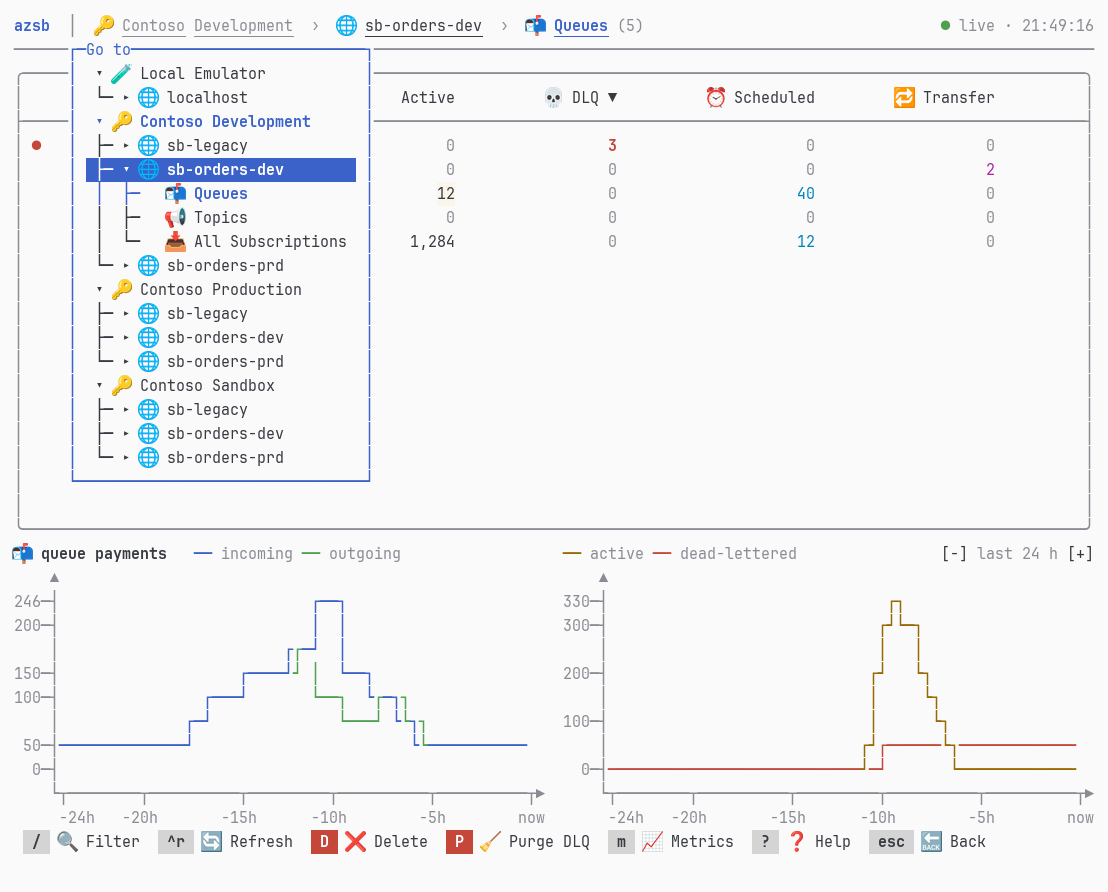
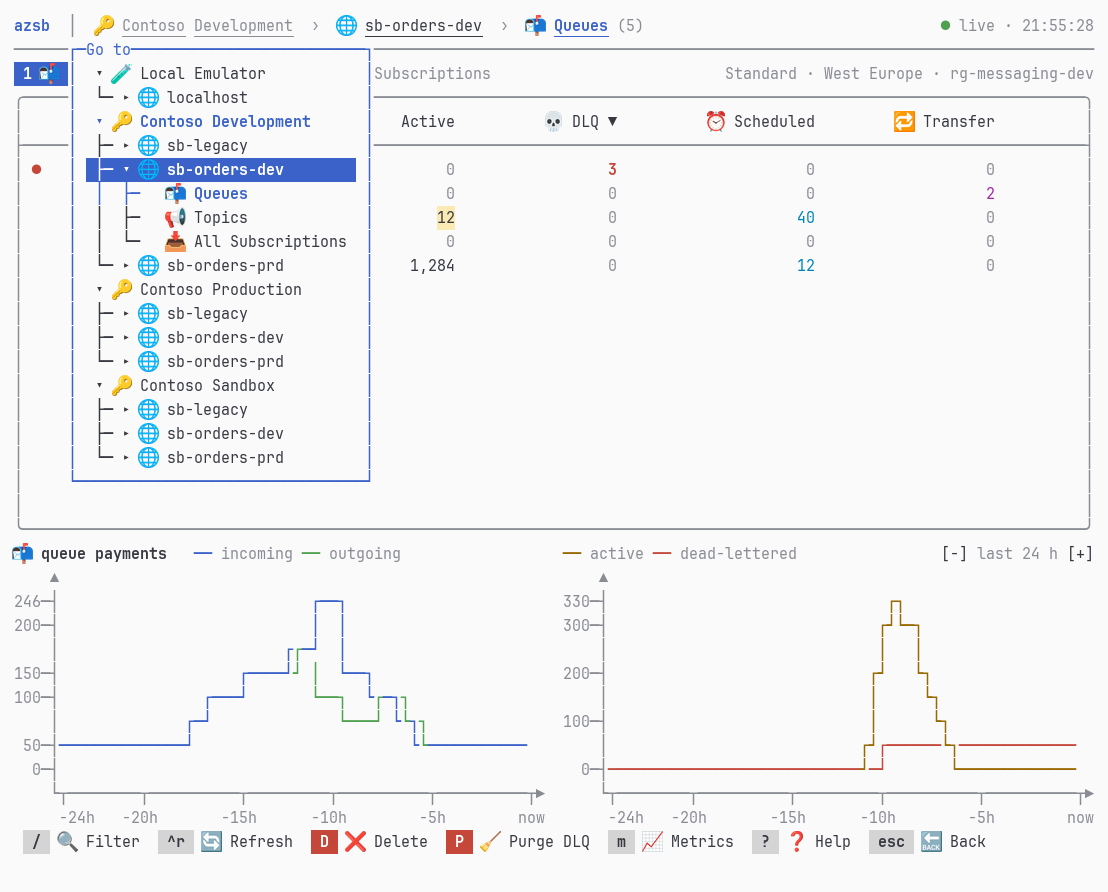
Section tabs on the queue, topic and subscription lists (#148)
Part of #128. SectionTabs under the header: 1 📬 Queues 5, 2 📢 Topics,
3 📥 All Subscriptions, the current one highlighted, with SKU, region and
resource group on the right. The page's own count is live; the others
come from the cached listings, so the tabs cost no requests. 1 2 3 and
a click switch sections; the breadcrumb dropdown stays for deeper pages.

Claude-Session: https://claude.ai/code/session_014zNgM4zMsC37xcnYsSUVjN

diff --git a/tests/ServiceBusConsole.Tests/QueueListPageTests.cs b/tests/ServiceBusConsole.Tests/QueueListPageTests.cs
@@ -1,3 +1,4 @@
+using Microsoft.Extensions.Logging.Abstractions;
 using RazorConsole.Testing;
 using Spectre.Console;
 
@@ -102,12 +103,30 @@ public sealed class QueueListPageTests
         var frame = await terminal.WaitUntilAsync(f => f.GetLine(0).Contains("● live"), AppHarness.Timeout, cancellationToken: Ct);
 
         frame.GetLine(1).Trim().ShouldBe(new string('─', frame.Width));
-        frame.GetLine(2).ShouldStartWith("╭");
-        frame.GetLine(2).ShouldNotContain("┬");
+        frame.GetLine(2).ShouldStartWith(" 1 📬 Queues 3 ");
+        frame.GetLine(3).ShouldStartWith("╭");
+        frame.GetLine(3).ShouldNotContain("┬");
         foreach (var name in new[] { "/ to filter", "payments", "emails" })
             frame.GetLine(RowOf(frame, name)).Count(c => c == '│').ShouldBe(2, name);
         frame.GetLine(RowOf(frame, "payments")).ShouldStartWith("│ ●");
         frame.GetLine(RowOf(frame, "emails")).ShouldNotContain("●");
+    }
+
+    [Test]
+    public async Task Tabs_CountTheSectionLive_AndTheOthersFromTheCache_AndTwoOpensTopics()
+    {
+        var app = WithQueues();
+        await new FileCache(NullLogger<FileCache>.Instance, app.CacheDirectory).SaveAsync(
+            CacheKeys.Topics(NamespaceInfo.Emulator), [new TopicInfo { Name = "orders" }, new TopicInfo { Name = "refunds" }]);
+        await using var terminal = await app.OpenQueuesAsync();
+
+        var frame = await terminal.WaitForTextAsync("Queues (3)", AppHarness.Timeout, Ct);
+        frame.GetLine(2).ShouldStartWith(" 1 📬 Queues 3   2 📢 Topics 2   3 📥 All Subscriptions ");
+        await AppHarness.WaitForTableFocusAsync(terminal);
+
+        await terminal.SendKeyAsync(ConsoleKey.D2, '2', cancellationToken: Ct);
+
+        await terminal.WaitUntilAsync(f => f.GetLine(0).Contains("📢 Topics"), AppHarness.Timeout, cancellationToken: Ct);
     }
 
     [Test]

diff --git a/src/ServiceBusConsole/UI/FullscreenLayout.cs b/src/ServiceBusConsole/UI/FullscreenLayout.cs
@@ -9,6 +9,9 @@ public static class FullscreenLayout
     /// <summary><see cref="ConnectionHeader"/>: the breadcrumb line and a rule — 2 lines.</summary>
     public const int Header = 2;
 
+    /// <summary><see cref="SectionTabs"/> under the header of a section's list page — 1 line.</summary>
+    public const int Tabs = 1;
+
     /// <summary><c>Padder(0,1,0,0)</c> + a single-line count/status markup — 2 lines.</summary>
     public const int CountRow = 2;
 
@@ -45,9 +48,12 @@ public static class FullscreenLayout
     public static int PageSizeRoundedTable(int terminalHeight)
         => PageSize(terminalHeight, Header + RoundedTableChrome + FooterButtons);
 
-    /// <summary><see cref="PageSizeRoundedTable(int)"/> with the metrics panel above the buttons when <paramref name="metrics"/>.</summary>
-    public static int PageSizeRoundedTable(int terminalHeight, bool metrics)
-        => PageSize(terminalHeight, Header + RoundedTableChrome + FooterButtons + (metrics ? MetricsPanel : 0));
+    /// <summary>
+    /// <see cref="PageSizeRoundedTable(int)"/> with the metrics panel above the buttons when <paramref name="metrics"/>,
+    /// and <see cref="SectionTabs"/> under the header when <paramref name="tabs"/>.
+    /// </summary>
+    public static int PageSizeRoundedTable(int terminalHeight, bool metrics, bool tabs = false)
+        => PageSize(terminalHeight, Header + (tabs ? Tabs : 0) + RoundedTableChrome + FooterButtons + (metrics ? MetricsPanel : 0));
 
     /// <summary>
     /// Message browser: list rows on top and the preview of the focused message below, about half each.

diff --git a/tests/ServiceBusConsole.Tests/TopicListPageTests.cs b/tests/ServiceBusConsole.Tests/TopicListPageTests.cs
@@ -21,7 +21,7 @@ public sealed class TopicListPageTests
         await using var terminal = await app.OpenTopicsAsync();
         await terminal.WaitForTextAsync("mid", AppHarness.Timeout, Ct);
 
-        await AppHarness.ClickTextAsync(terminal, "Subscriptions");
+        await AppHarness.ClickTextAsync(terminal, "📥 Subscriptions"); // the column, not the tab
         var frame = await terminal.WaitForTextAsync("Subscriptions ▲", AppHarness.Timeout, Ct);
         RowOf(frame, "zeta").ShouldBeLessThan(RowOf(frame, "mid"));
         RowOf(frame, "mid").ShouldBeLessThan(RowOf(frame, "alpha"));

diff --git a/CLAUDE.md b/CLAUDE.md
@@ -107,7 +107,7 @@ This is a .NET 10 terminal UI app that browses Azure Service Bus namespaces, que
 | `Messaging/` | `MessageBrowser` (+ store), `OperationProgress`, `RetryText` |
 | `Logging/`, `Syntax/` | File logger, JSON highlighting grammar |
 
-**UI pattern:** Use `/razorconsole` for a full component and pattern reference. Namespace pages use `<FullscreenPage>`: `<Header>` (breadcrumb + count, rendered inside `ConnectionHeader`), `<Status>` (right of the breadcrumb: `<LiveStatus>` on list pages), `<Content>` (table wrapped in `<Scrollable>`), `<Footer>` (action buttons). `ConnectionHeader` is one line (`azsb │ subscription › namespace › page`) and a rule, with click-to-switch pickers on the subscription and namespace; switching calls `ServiceBusConnection.SetNamespace`, then `NavigationState.Reload()` remounts the page when it stays on the same route (`App.razor` keys `RouteView` on `NavState.PageVersion`). Navigation uses `Nav.NavigateTo("/route")`.
+**UI pattern:** Use `/razorconsole` for a full component and pattern reference. Namespace pages use `<FullscreenPage>`: `<Header>` (breadcrumb + count, rendered inside `ConnectionHeader`), `<Status>` (right of the breadcrumb: `<LiveStatus>` on list pages), `<Content>` (table wrapped in `<Scrollable>`), `<Footer>` (action buttons). `ConnectionHeader` is one line (`azsb │ subscription › namespace › page`) and a rule, with click-to-switch pickers on the subscription and namespace; switching calls `ServiceBusConnection.SetNamespace`, then `NavigationState.Reload()` remounts the page when it stays on the same route (`App.razor` keys `RouteView` on `NavState.PageVersion`). Navigation uses `Nav.NavigateTo("/route")`. The section list pages (queues, topics, all subscriptions) start their content with `<SectionTabs>`: keys 1 2 3, the page's own count live, the others read from the cached listings (no requests), plus SKU · region · resource group.
 
 **Tables:** a page's main table is its bordered box: `Border="TableBorder.Rounded" data-column-separators="false"` (a fork hook) draws the outer border and the header rule, no lines between columns. List pages end their rows with `<FillerRows>` so the box keeps a full page's height; the message browser doesn't, its preview takes the spare lines. A `<DeadLetterMark>` gutter marks rows with dead letters.
 
